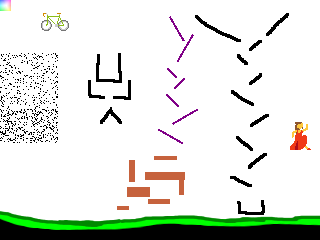
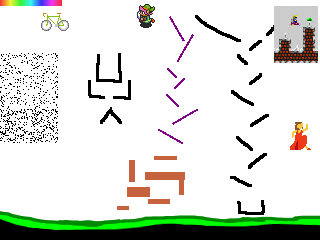
added mode to turn solid to sand

Changed region(s): [[0.8438, 0.0, 1.0, 0.2625], [0.4062, 0.0, 0.5, 0.1167], [0.0, 0.0, 0.2188, 0.0583]]

diff --git a/src/component.ts b/src/component.ts
@@ -2,11 +2,17 @@ const WIDTH = 320;
 const HEIGHT = 240;
 const SCALE = 3;
 
+// Adding this property to the global Module so we can work out if its ready or not
+let Module = window['Module']= {} as any;
+Module.onRuntimeInitialized = ()=>{
+    Module.wasmReady = true;
+}
+
 
 class SandComponent extends HTMLElement {
     private animRequestId: number | null = null;
     private lastTime = 0;
-    private wasmDraw = (seed:number, timeDelta: number, mouseX: number, mouseY: number, mouseDown: boolean, bigBrush: boolean) => { };
+    private wasmDraw = (seed:number, mode:number, timeDelta: number, mouseX: number, mouseY: number, mouseDown: boolean, bigBrush: boolean) => { };
     private wasmReset = () => { };
     private mouseDown: boolean = false;
     private mousePos: [number, number] = [0, 0];
@@ -17,6 +23,8 @@ class SandComponent extends HTMLElement {
     private arrayBufferView: Uint8Array;
     private drawSeed: number=1;
     private image;
+    private modeButton: HTMLElement;
+    private mode = 0;
 
     constructor() {
         super();
@@ -55,6 +63,15 @@ class SandComponent extends HTMLElement {
         brushLabel.append(brushCheckbox);
         brushLabel.appendChild(document.createTextNode("Big Brush"));
         this.shadow.append(brushLabel);
+
+        // Mode button
+        this.modeButton = this.ownerDocument.createElement("button");
+        this.modeButton.innerText = "Mode: Sand";
+        this.shadow.appendChild(this.modeButton);
+        this.modeButton.addEventListener("click", () => {
+            this.mode = (this.mode+1)%2;
+            this.modeButton.textContent = "Mode: " + ["Sand","Destroy"][this.mode];
+        });
 
         // reset button
         const resetButton = this.ownerDocument.createElement("button");
@@ -142,7 +159,7 @@ class SandComponent extends HTMLElement {
         this.lastTime = time;
 
         // Call WASM function
-        this.wasmDraw(this.drawSeed, timeDelta,
+        this.wasmDraw(this.drawSeed, this.mode, timeDelta,
             this.mousePos[0], this.mousePos[1], this.mouseDown,
             this.bigBrush);
 
@@ -157,10 +174,5 @@ class SandComponent extends HTMLElement {
     }
 }
 
-// Adding this property to the global Module so we can work out if its ready or not
-window.Module= {};
-Module.onRuntimeInitialized = ()=>{
-    Module.wasmReady = true;
-}
 
 customElements.define("sand-component", SandComponent);

diff --git a/src/index.cpp b/src/index.cpp
@@ -127,7 +127,7 @@ extern "C"
     }
 
     // EMSCRIPTEN_KEEPALIVE
-    int draw(int seed, float timeDelta, int mx, int my, bool mouseDown, bool bigBrush)
+    int draw(int seed, int mode, float timeDelta, int mx, int my, bool mouseDown, bool bigBrush)
     {
         dir = dir == 1 ? -1 : 1; // flip each frame
         for (int y = HEIGHT - 1; y >= 0; y--)
@@ -161,22 +161,37 @@ extern "C"
 
         if (mouseDown)
         {
-            if (bigBrush)
-            {
+            if(mode == 0){
+                if (bigBrush)
+                {
+                    for (int dx = -5; dx <= 5; dx++)
+                    {
+                        for (int dy = -5; dy <= 5; dy++)
+                        {
+                            if (getVal(mx + dx, my + dy) == 0)
+                            {
+                                setSandRgb(mx + dx, my + dy, rainbow[seed % 4][0], rainbow[seed % 4][1], rainbow[seed % 4][2]);
+                            }
+                        }
+                    }
+                }
+                else if (getVal(mx, my) == 0)
+                {
+                    setSandRgb(mx, my, rainbow[seed % 4][0], rainbow[seed % 4][1], rainbow[seed % 4][2]);
+                }
+            } else if(mode == 1){
                 for (int dx = -5; dx <= 5; dx++)
                 {
                     for (int dy = -5; dy <= 5; dy++)
                     {
-                        if (getVal(mx + dx, my + dy) == 0)
+                        if (getVal(mx + dx, my + dy) == 2)
                         {
-                            setSandRgb(mx + dx, my + dy, rainbow[seed % 4][0], rainbow[seed % 4][1], rainbow[seed % 4][2]);
+                            if (!(mx + dx < 0 || mx + dx >= WIDTH || my + dy < 0 || my + dy >= HEIGHT)){
+                                sand[(mx + dx)+ (my + dy) * WIDTH] = 1;
+                            }
                         }
                     }
                 }
-            }
-            else if (getVal(mx, my) == 0)
-            {
-                setSandRgb(mx, my, rainbow[seed % 4][0], rainbow[seed % 4][1], rainbow[seed % 4][2]);
             }
         }
 

diff --git a/readme.md b/readme.md
@@ -7,6 +7,7 @@
 # TODO
 
 * ✅ Add method to set sand from image 
+* ✅ Add a way to turn solid pixels into sand
 * ⬜ Add method to sample sand from javascript
     * ⬜ Add a common way to share an array of bytes
 * ⬜ Add a game loop update
